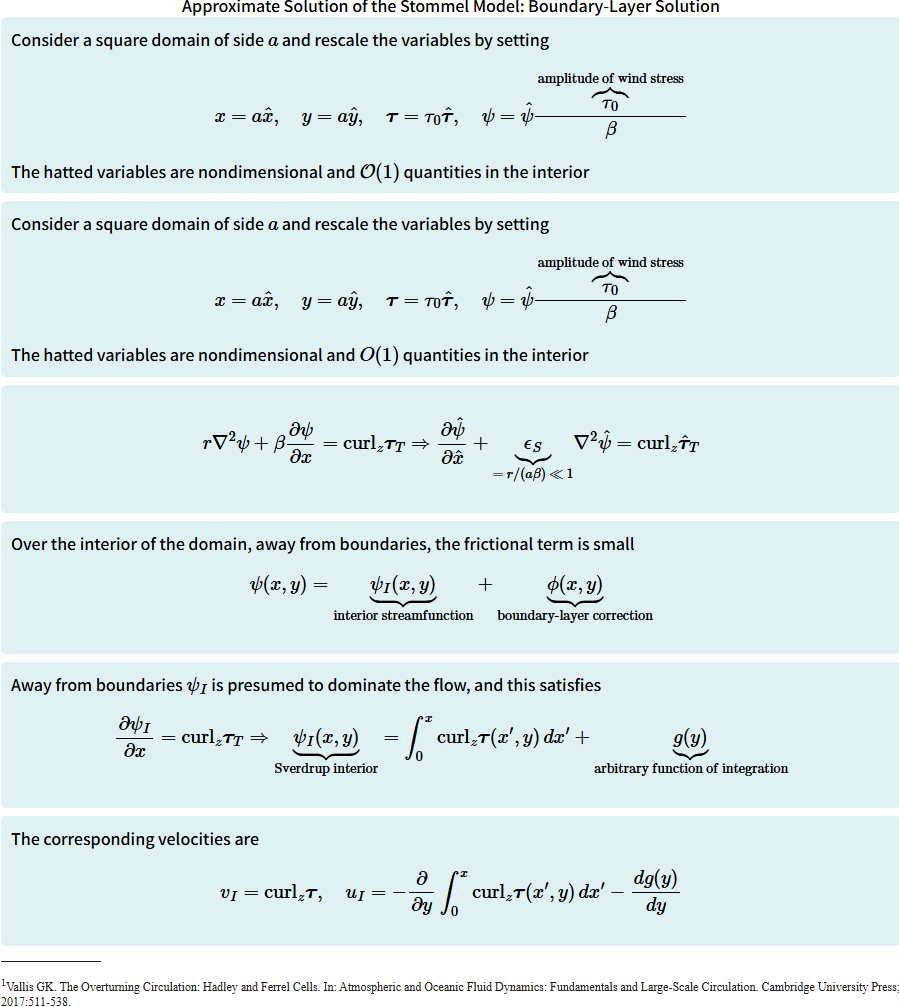
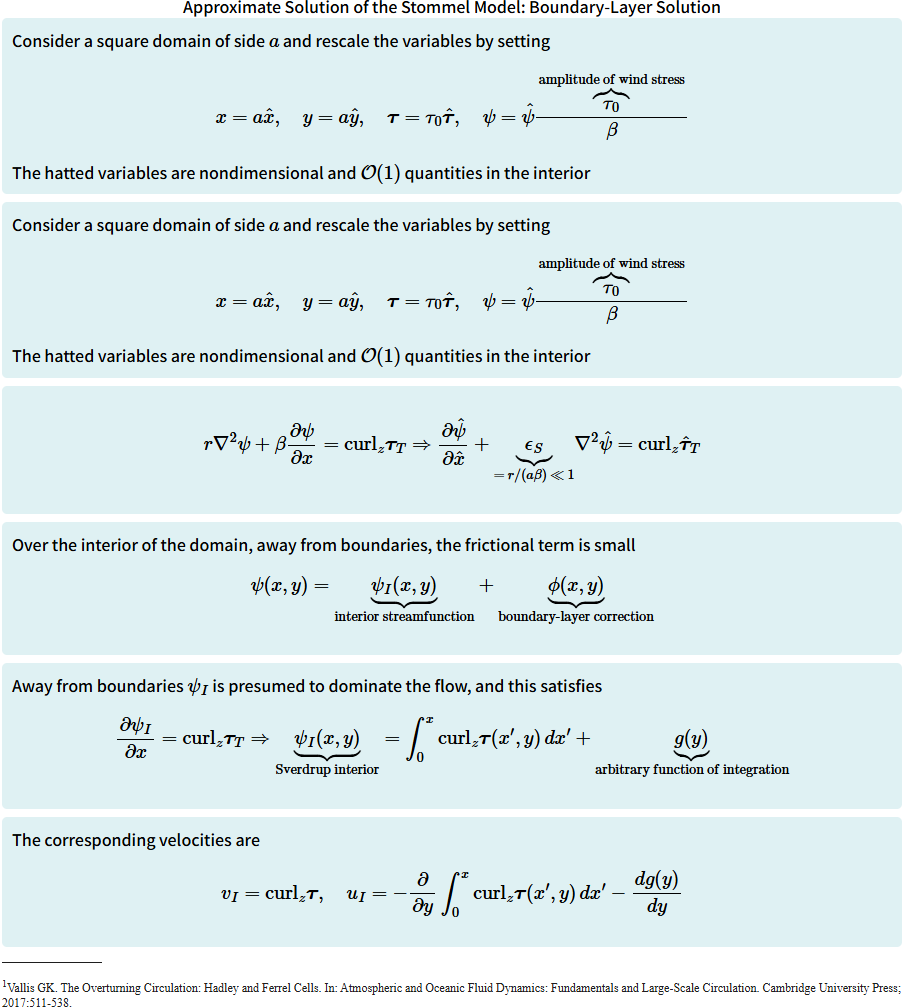
Update

diff --git a/Lecture5BSlide26.html b/Lecture5BSlide26.html
@@ -153,37 +153,94 @@ window.addEventListener('resize', scaleContainer);
 </head>
 <body>
     <div class="container">
-        <div class="title">Using Viscosity Instead of Drag</div>
+        <div class="title">The Stommel and Munk Models of the Wind-Driven Circulation</div>
 
-<p>It should be emphasized that neither the Stommel nor
-the Munk models are accurate descriptors of the real ocean, but taken together the similarities of
-their solutions are a powerful argument for the relative insensitivity of the qualitative form of the
-solution to the detailed form of the friction. The models do in fact produce reasonably realistic
-patterns of large-scale flow in the major basins of the world.</p>
-
-<p>
-The figure below shows the solution (streamfunction, in Sverdrups) to the Stommel-Munk problem numerically calculated for the North Atlantic, using the observed wind field. The model has realistic geometry, but is flat-bottomed.
-The calculation reproduces the observed large-scale patterns, but the Gulf Stream and its extension are too diffuse, and its separation from the coast is a little too far north.
-</p>
-
-<div class="image-container">
-<img src="Figures/Lecture5B_WindCalculatedStommelMunkSolution.png" alt="WindCalculatedStommelMunkSolution" style="max-width: 100%; height: 100%; border: none;">
+<div class="description">
+The full vorticity equation rewritten with streamfunction $\psi$ is
+\begin{align}
+&\overbrace{
+  \underbrace{\tfrac{\partial}{\partial t} (\nabla^2 \psi)}_{\text{Local change of relative vorticity } 
+  \zeta = \tfrac{\partial v}{\partial x} - \tfrac{\partial u}{\partial y}}
+  + \underbrace{J(\psi, \nabla^2 \psi)}_{\text{Jacobian, Nonlinear advection of vorticity}}
+}^{\text{Material derivative } \tfrac{D\zeta}{Dt}}
++ \underbrace{\beta \psi_x}_{\text{Meridional advection of planetary vorticity}} \notag \\
+&= \underbrace{\tfrac{f_0}{D} w_E}_{\text{Column Stretching/compression by Ekman pumping}}
+ - \underbrace{r \nabla^2 \psi}_{\text{Linear bottom friction}}
+ + \underbrace{k_H \nabla^4 \psi}_{\text{Horizontal friction}} 
+\end{align}
+with
+\(
+J(A, B) = A_x B_y - A_y B_x
+\)
 </div>
 
+<div class="description">
+Stommel's assumption
+<ul>
+  <li>Include only linear bottom drag: keep $-r \nabla^2 \psi$</li>
+  <li>Ignore $\nabla^4 \psi$ and nonlinear terms</li>
+</ul>
+\begin{align}
+&\overbrace{
+\cancel{
+\underbrace{\tfrac{\partial}{\partial t} (\nabla^2 \psi)}_{\text{Local change of relative vorticity } \zeta}} + 
+\cancel{
+\underbrace{J(\psi, \nabla^2 \psi)}_{\text{Nonlinear advection of vorticity}}}
+}^{\text{Material derivative } \tfrac{D\zeta}{Dt}}
++ \underbrace{\beta \tfrac{\partial \psi}{\partial x}}_{\text{Meridional advection of planetary vorticity}} \notag \\
+&= \underbrace{\tfrac{f_0}{D} w_E}_{\text{Ekman pumping (stretching/compression)}}
+ - \underbrace{r \nabla^2 \psi}_{\text{Linear bottom friction}}
+ + \cancel{
+ \underbrace{k_H \nabla^4 \psi}_{\text{Horizontal friction}}}
+\end{align}
 
-        <div class="footnote-container">
-            <hr class="footnote-line">
-            <p class="footnote">
-                <sup>1</sup>Vallis GK. The Overturning Circulation: Hadley and Ferrel Cells. In: Atmospheric and Oceanic Fluid Dynamics: Fundamentals and Large-Scale Circulation. Cambridge University Press; 2017:511-538.
-            </p>
-        </div>
+$$
+\frac{\partial^2 \psi}{\partial x^2} \gg \frac{\partial^2 \psi}{\partial y^2}
+\quad \Rightarrow \quad
+\boxed{
+\beta \frac{\partial \psi}{\partial x}
+=
+\frac{f_0}{D} w_E
+-
+r \frac{\partial^2 \psi}{\partial x^2}
+}
+$$
+</div>
+
+<div class="description">
+Munk's extension
+<ul>
+  <li>Adds horizontal friction using biharmonic term $+k_H \nabla^4 \psi$</li>
+  <li>Important for resolving realistic boundary layers</li>
+</ul>
+\begin{align}
+&\overbrace{
+\cancel{
+\underbrace{\tfrac{\partial}{\partial t} (\nabla^2 \psi)}_{\text{Local change of relative vorticity } \zeta}} + 
+\cancel{
+\underbrace{J(\psi, \nabla^2 \psi)}_{\text{Nonlinear advection of vorticity}}}
+}^{\text{Material derivative } \tfrac{D\zeta}{Dt}}
++ \underbrace{\beta \tfrac{\partial \psi}{\partial x}}_{\text{Meridional advection of planetary vorticity}} \notag \\
+&= \underbrace{\tfrac{f_0}{D} w_E}_{\text{Column Stretching/compression by Ekman pumping}}
+ - \underbrace{\cancel{r \nabla^2 \psi}}_{\text{Linear bottom friction}}
+ + \underbrace{k_H \nabla^4 \psi}_{\text{Horizontal friction}}
+\end{align}
+Applying the western boundary layer assumption
+$
+\nabla^4 \psi \approx \frac{\partial^4 \psi}{\partial x^4}
+\quad \Rightarrow \quad
+\boxed{
+\beta \frac{\partial \psi}{\partial x} = \frac{f_0}{D} w_E + k_H \frac{\partial^4 \psi}{\partial x^4}
+}
+$
+</div>
 
 
 
 
         <!-- Navigation Buttons -->
-        <a href="Lecture5BSlide24.html" class="nav-button left">&#9664;</a>
-        <a href="Lecture5BSlide26.html" class="nav-button right">&#9654;</a>
+        <a href="Lecture5BSlide25.html" class="nav-button left">&#9664;</a>
+        <a href="Lecture5BSlide27.html" class="nav-button right">&#9654;</a>
     </div>
 </body>
 </html>

diff --git a/Lecture5BSlide27.html b/Lecture5BSlide27.html
@@ -153,21 +153,10 @@ window.addEventListener('resize', scaleContainer);
 </head>
 <body>
     <div class="container">
-        <div class="title">Using Viscosity Instead of Drag</div>
+        <div class="title">The Stommel and Munk Models of the Wind-Driven Circulation</div>
 
-<p>It should be emphasized that neither the Stommel nor
-the Munk models are accurate descriptors of the real ocean, but taken together the similarities of
-their solutions are a powerful argument for the relative insensitivity of the qualitative form of the
-solution to the detailed form of the friction. The models do in fact produce reasonably realistic
-patterns of large-scale flow in the major basins of the world.</p>
+<div class="description">
 
-<p>
-The figure below shows the solution (streamfunction, in Sverdrups) to the Stommel-Munk problem numerically calculated for the North Atlantic, using the observed wind field. The model has realistic geometry, but is flat-bottomed.
-The calculation reproduces the observed large-scale patterns, but the Gulf Stream and its extension are too diffuse, and its separation from the coast is a little too far north.
-</p>
-
-<div class="image-container">
-<img src="Figures/Lecture5B_WindCalculatedStommelMunkSolution.png" alt="WindCalculatedStommelMunkSolution" style="max-width: 100%; height: 100%; border: none;">
 </div>
 
 
@@ -178,12 +167,9 @@ The calculation reproduces the observed large-scale patterns, but the Gulf Strea
             </p>
         </div>
 
-
-
-
         <!-- Navigation Buttons -->
-        <a href="Lecture5BSlide24.html" class="nav-button left">&#9664;</a>
-        <a href="Lecture5BSlide26.html" class="nav-button right">&#9654;</a>
+        <a href="Lecture5BSlide26.html" class="nav-button left">&#9664;</a>
+        <a href="Lecture5BSlide28.html" class="nav-button right">&#9654;</a>
     </div>
 </body>
 </html>

diff --git a/Lecture5BOverview.html b/Lecture5BOverview.html
@@ -293,6 +293,26 @@
                 <img src="Figures/Lecture5BSlide26.png" alt="Slide 26">
             </div>
         </a>
+        <a href="Lecture5BSlide27.html" class="slide-link">
+            <div class="slide-box">
+                <img src="Figures/Lecture5BSlide27.png" alt="Slide 27">
+            </div>
+        </a>
+        <a href="Lecture5BSlide28.html" class="slide-link">
+            <div class="slide-box">
+                <img src="Figures/Lecture5BSlide28.png" alt="Slide 28">
+            </div>
+        </a>
+        <a href="Lecture5BSlide29.html" class="slide-link">
+            <div class="slide-box">
+                <img src="Figures/Lecture5BSlide29.png" alt="Slide 29">
+            </div>
+        </a>
+        <a href="Lecture5BSlide30.html" class="slide-link">
+            <div class="slide-box">
+                <img src="Figures/Lecture5BSlide30.png" alt="Slide 30">
+            </div>
+        </a>
     </div>
 
 </body>

diff --git a/Lecture5BSlide17.html b/Lecture5BSlide17.html
@@ -170,7 +170,7 @@ $$
 x = a\hat{x}, \quad y = a\hat{y}, \quad 
 \boldsymbol{\tau} = \tau_0 \hat{\boldsymbol{\tau}}, \quad 
 \psi = \hat{\psi} \frac{\overbrace{\tau_0}^{\text{amplitude of wind stress}}}{\beta}
-$$ The hatted variables are nondimensional and $O(1)$ quantities in the interior
+$$ The hatted variables are nondimensional and $\mathcal{O}(1)$ quantities in the interior
 </div>
 
 <div class="description">
@@ -193,7 +193,6 @@ $$
 
 <div class="description">
 Away from boundaries $\psi_I$ is presumed to dominate the flow, and this satisfies
-
 $$
 \frac{\partial \psi_I}{\partial x} = \text{curl}_z \boldsymbol{\tau}_T \Rightarrow  \underbrace{\psi_I(x,y)}_{\text{Sverdrup interior}} = \int_0^x \text{curl}_z \boldsymbol{\tau}(x',y)\, dx' + \underbrace{g(y)}_{\text{arbitrary function of integration}}
 $$
